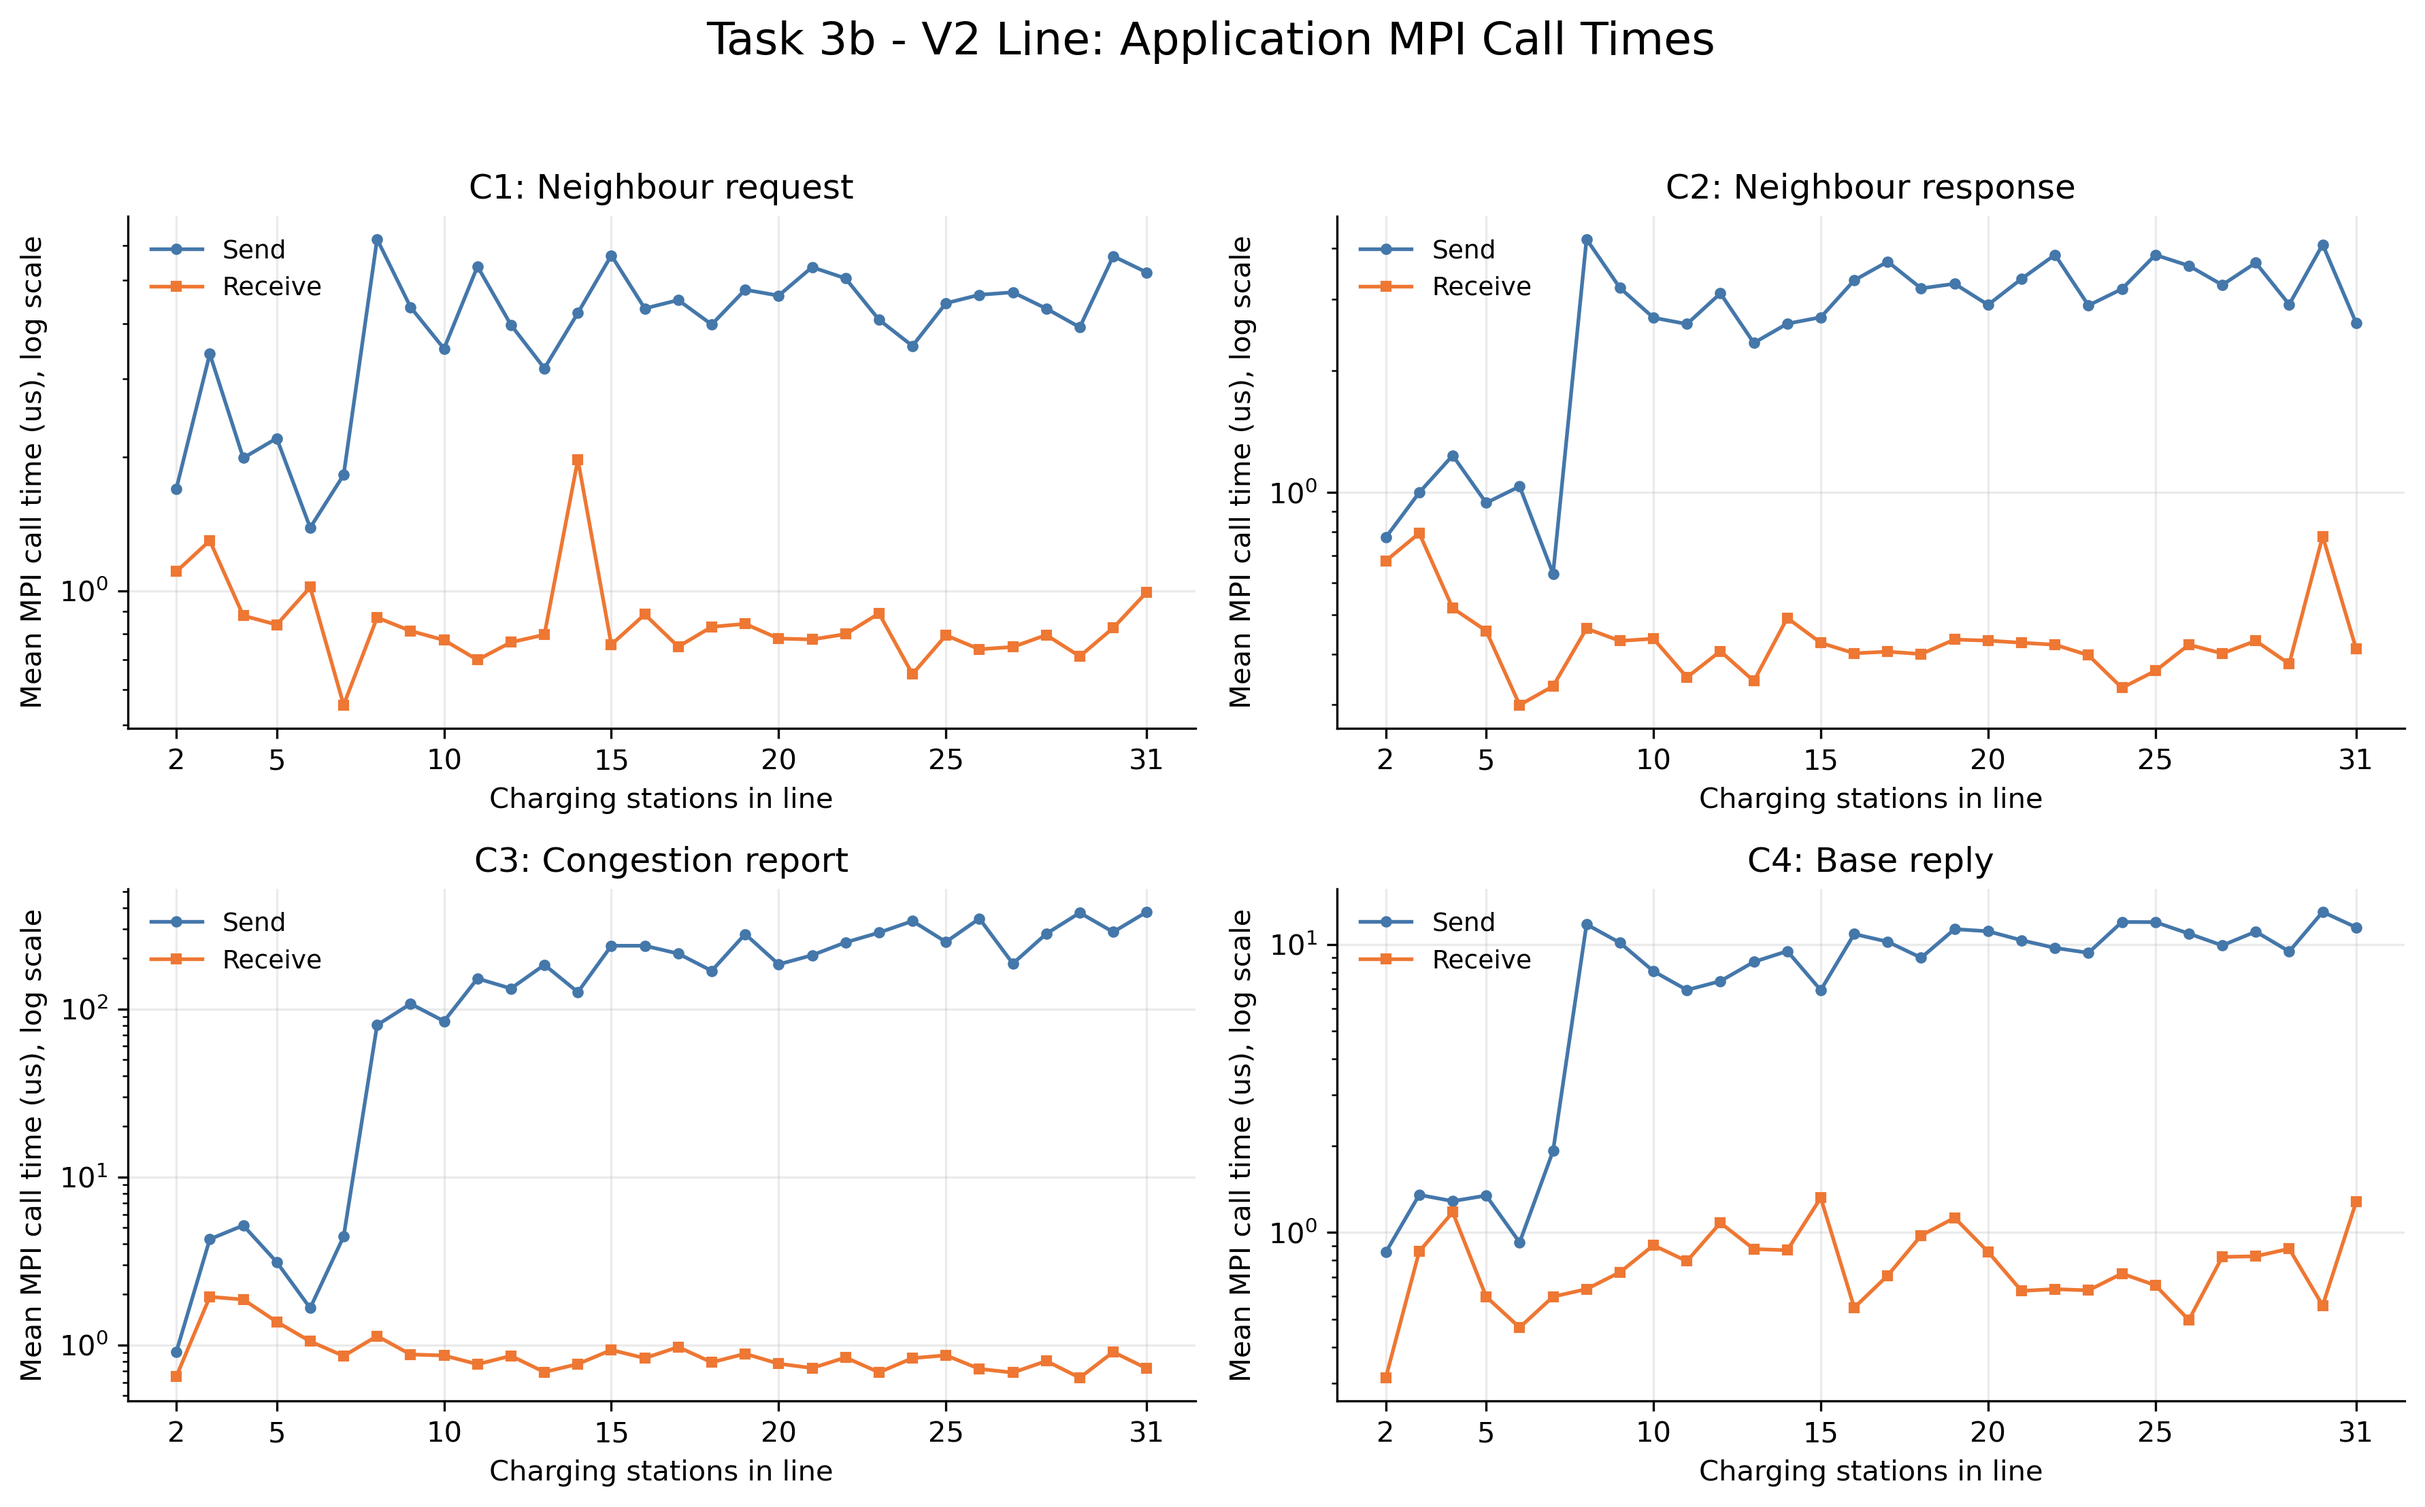
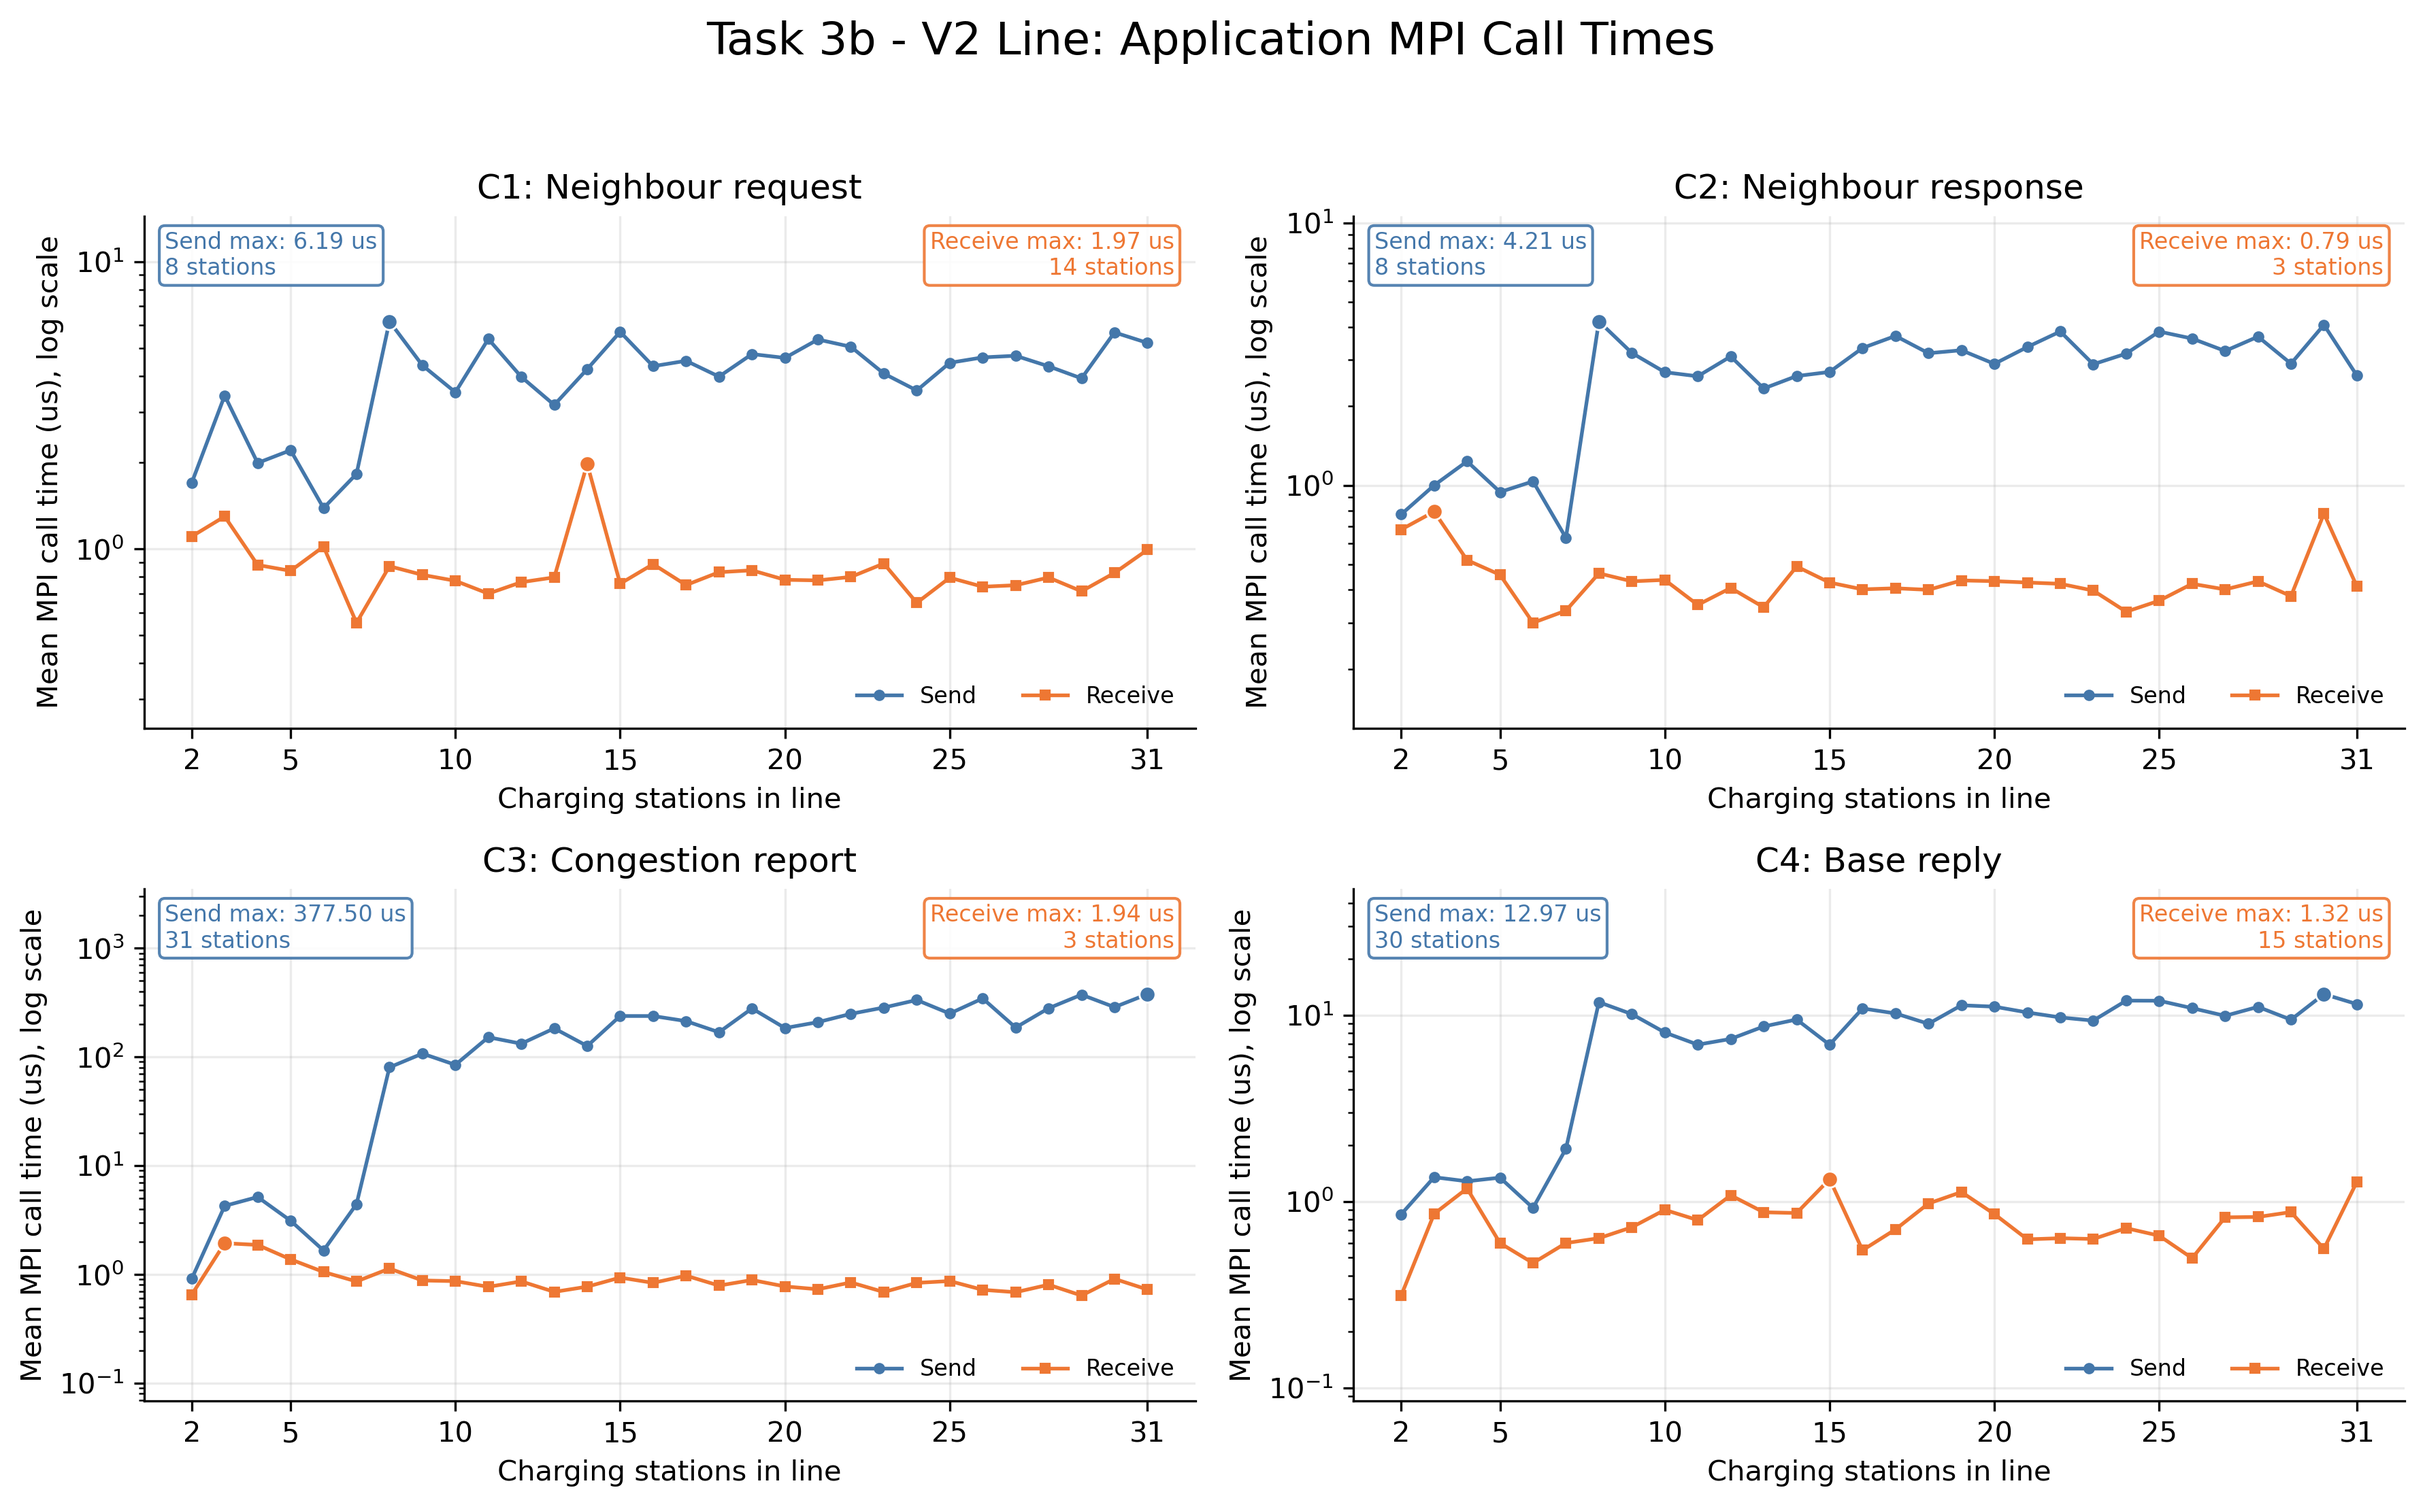
add critical point

diff --git a/Lab 03/final/task3_caas_upload/plot_comm_task3a/plot_task3a.py b/Lab 03/final/task3_caas_upload/plot_comm_task3a/plot_task3a.py
@@ -64,6 +64,22 @@ def load_data(folder):
                                             int(r["rows"]), int(r["cols"])))
 
 
+def label_peak(ax, stations, values, color):
+    # Mark only the maximum of each line, keeping the 30-point graph readable.
+    valid = [i for i, value in enumerate(values) if math.isfinite(value)]
+    if not valid:
+        return
+    index = max(valid, key=lambda i: values[i])
+    x, y = stations[index], values[index]
+    offset = -10 if x > (stations[0] + stations[-1]) / 2 else 10
+    ax.scatter([x], [y], s=32, color=color, edgecolors="white", linewidths=0.7, zorder=4)
+    ax.annotate(f"Max: {y:.2f} us\n{x} stations", xy=(x, y), xytext=(offset, 12),
+                textcoords="offset points", ha="right" if offset < 0 else "left",
+                va="bottom", fontsize=8, color=color, zorder=5,
+                bbox=dict(boxstyle="round,pad=0.25", facecolor="white", edgecolor=color, alpha=0.9),
+                arrowprops=dict(arrowstyle="-", color=color, linewidth=0.7))
+
+
 def plot_messages(records, tags, title, output, filename):
     fig, axes = plt.subplots(2 if len(tags) > 2 else 1, 2, figsize=(12, 7.5 if len(tags) > 2 else 4.5),
                              squeeze=False)
@@ -91,7 +107,10 @@ def plot_messages(records, tags, title, output, filename):
         ax.set_axisbelow(True)
         ax.grid(axis="both", which="major", alpha=0.25)
         ax.spines[["top", "right"]].set_visible(False)
-        ax.legend(frameon=False, fontsize=9)
+        ax.legend(frameon=False, fontsize=8, loc="lower right", ncol=2)
+        ax.margins(y=0.35)
+        label_peak(ax, stations, send, "#4477AA")
+        label_peak(ax, stations, receive, "#EE7733")
     fig.suptitle(f"Task 3a - {VERSION.upper()} Mesh: {title}", fontsize=16)
     fig.tight_layout(rect=(0, 0, 1, 0.95))
     fig.savefig(output / filename, dpi=300, bbox_inches="tight")

diff --git a/Lab 03/final/task3_caas_upload/plot_comm_task3b/plot_task3b.py b/Lab 03/final/task3_caas_upload/plot_comm_task3b/plot_task3b.py
@@ -68,6 +68,22 @@ def load_data(folder):
                                             int(r["rows"]), int(r["cols"])))
 
 
+def label_peak(ax, stations, values, color):
+    # Highlight each maximum; put its value in the clear space above the lines.
+    valid = [i for i, value in enumerate(values) if math.isfinite(value)]
+    if not valid:
+        return
+    index = max(valid, key=lambda i: values[i])
+    x, y = stations[index], values[index]
+    is_send = color == "#4477AA"
+    name = "Send" if is_send else "Receive"
+    ax.scatter([x], [y], s=32, color=color, edgecolors="white", linewidths=0.7, zorder=4)
+    ax.text(0.02 if is_send else 0.98, 0.97, f"{name} max: {y:.2f} us\n{x} stations",
+            transform=ax.transAxes, ha="left" if is_send else "right", va="top",
+            fontsize=8, color=color, zorder=5,
+            bbox=dict(boxstyle="round,pad=0.25", facecolor="white", edgecolor=color, alpha=0.9))
+
+
 def plot_messages(records, tags, title, output, filename):
     fig, axes = plt.subplots(2 if len(tags) > 2 else 1, 2, figsize=(12, 7.5 if len(tags) > 2 else 4.5),
                              squeeze=False)
@@ -95,7 +111,10 @@ def plot_messages(records, tags, title, output, filename):
         ax.set_axisbelow(True)
         ax.grid(axis="both", which="major", alpha=0.25)
         ax.spines[["top", "right"]].set_visible(False)
-        ax.legend(frameon=False, fontsize=9)
+        ax.legend(frameon=False, fontsize=8, loc="lower right", ncol=2)
+        ax.margins(y=0.35)
+        label_peak(ax, stations, send, "#4477AA")
+        label_peak(ax, stations, receive, "#EE7733")
     fig.suptitle(f"Task 3b - {VERSION.upper()} Line: {title}", fontsize=16)
     fig.tight_layout(rect=(0, 0, 1, 0.95))
     fig.savefig(output / filename, dpi=300, bbox_inches="tight")
